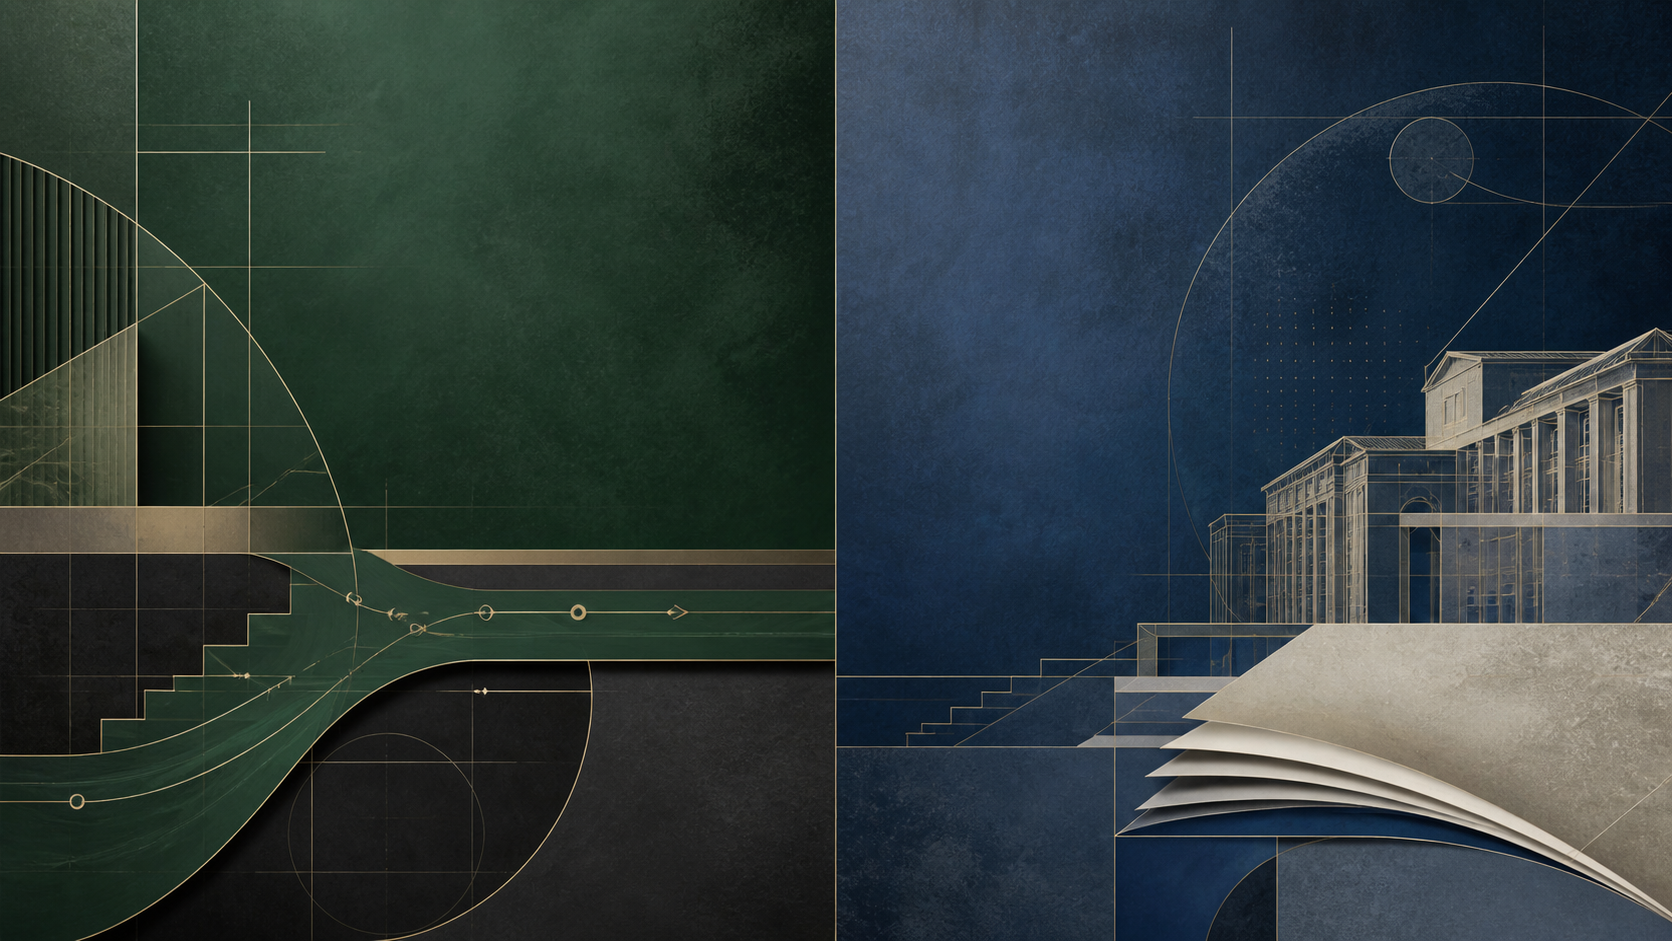
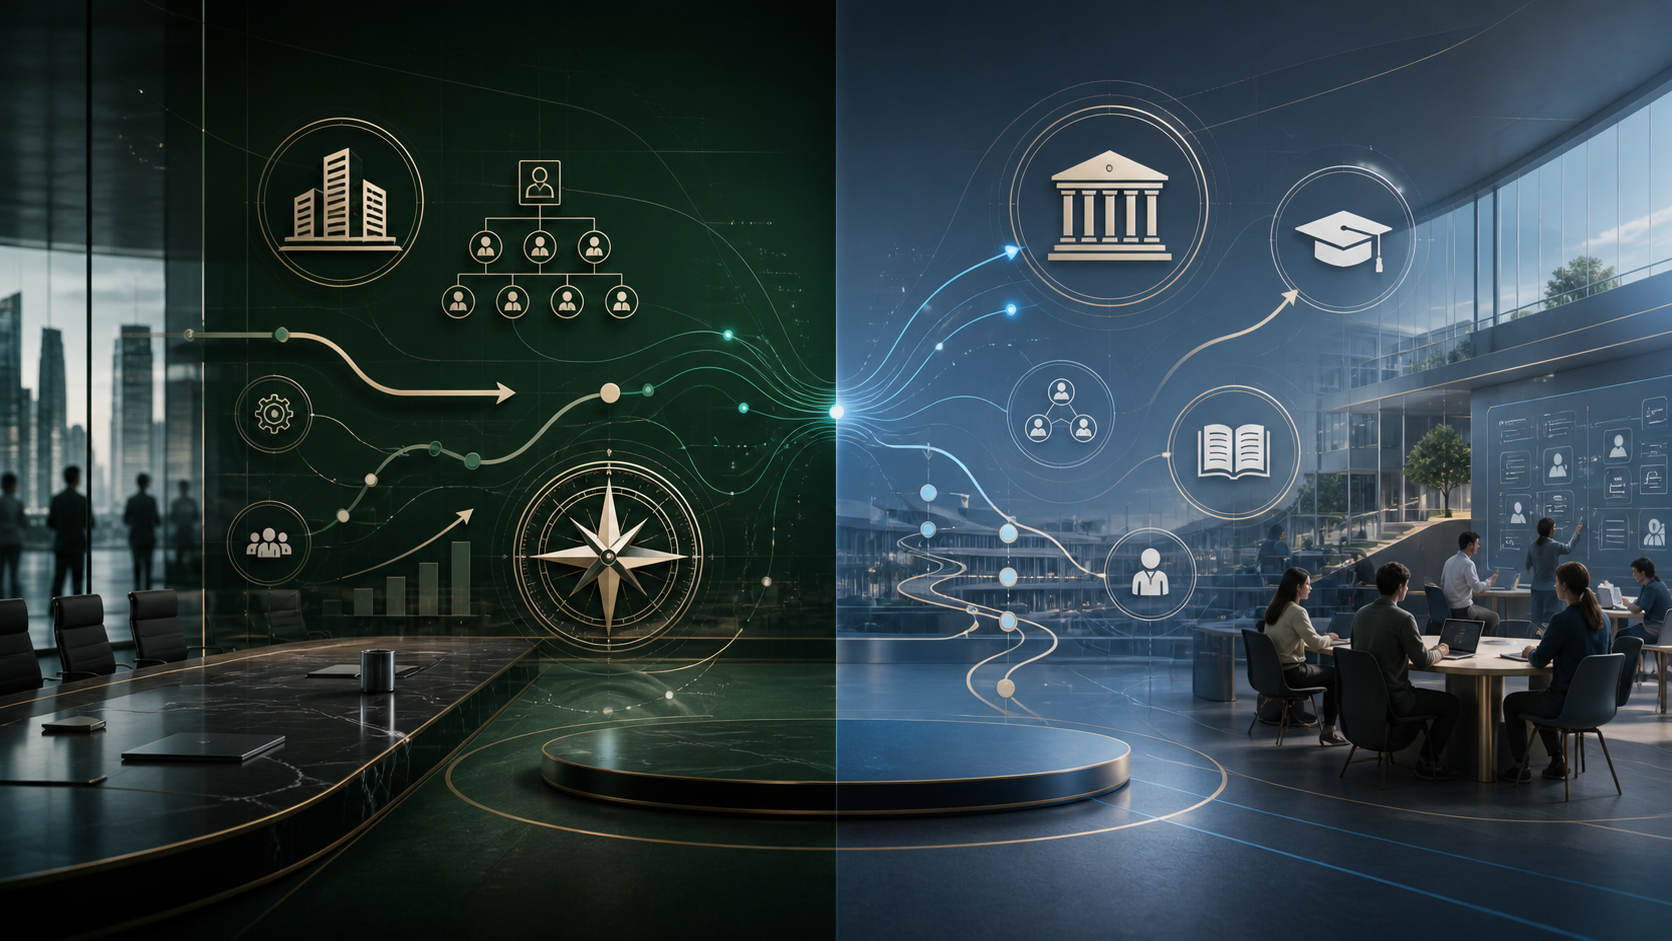
fix: mejorar imagenes de empresas y educacion

diff --git a/app/globals.css b/app/globals.css
@@ -263,13 +263,40 @@ h1 {
   transition: background 260ms ease, letter-spacing 260ms ease;
 }
 
+.route-card::before {
+  background: linear-gradient(90deg, rgba(2, 42, 37, 0.52), rgba(2, 42, 37, 0.16));
+  content: "";
+  inset: 0;
+  position: absolute;
+  transition: opacity 260ms ease;
+  z-index: 0;
+}
+
+.route-card > * {
+  position: relative;
+  z-index: 1;
+}
+
 .route-card:hover {
   background: rgba(0, 0, 0, 0.16);
   letter-spacing: 0.055em;
 }
 
+.route-card:hover::before {
+  opacity: 0.72;
+}
+
 .route-empresas {
   border-right: 1px solid rgba(196, 154, 89, 0.7);
+  position: relative;
+}
+
+.route-educacion {
+  position: relative;
+}
+
+.route-educacion::before {
+  background: linear-gradient(90deg, rgba(22, 61, 88, 0.48), rgba(22, 61, 88, 0.12));
 }
 
 .route-icon {
